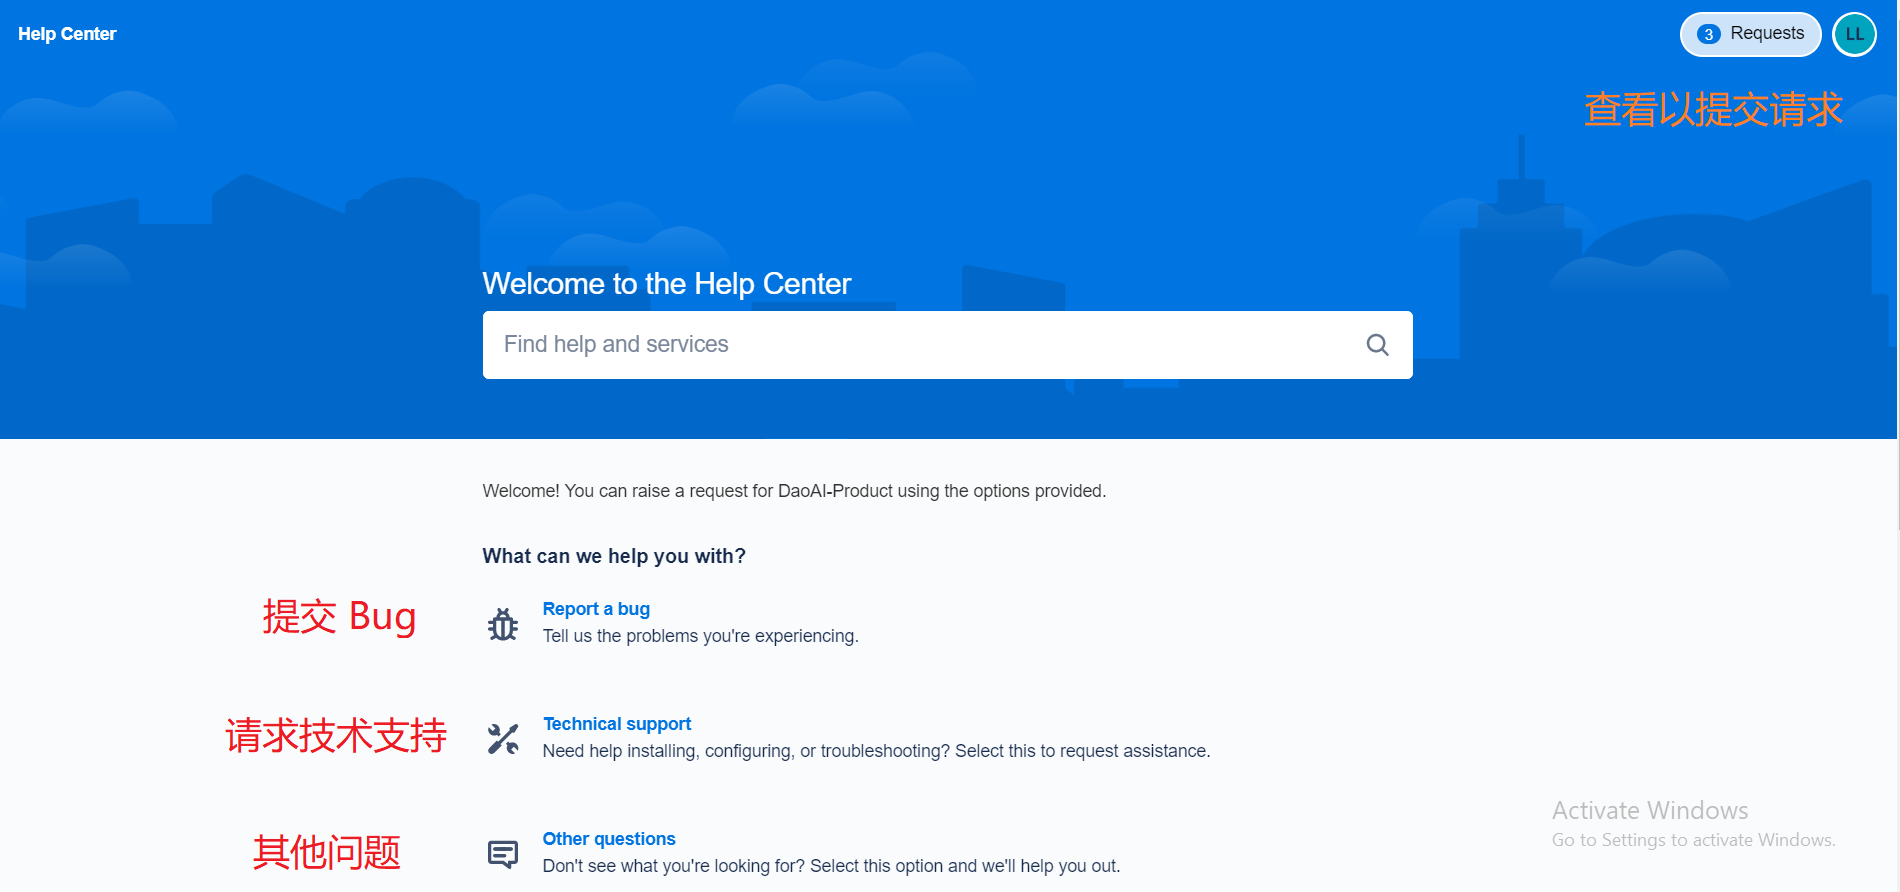
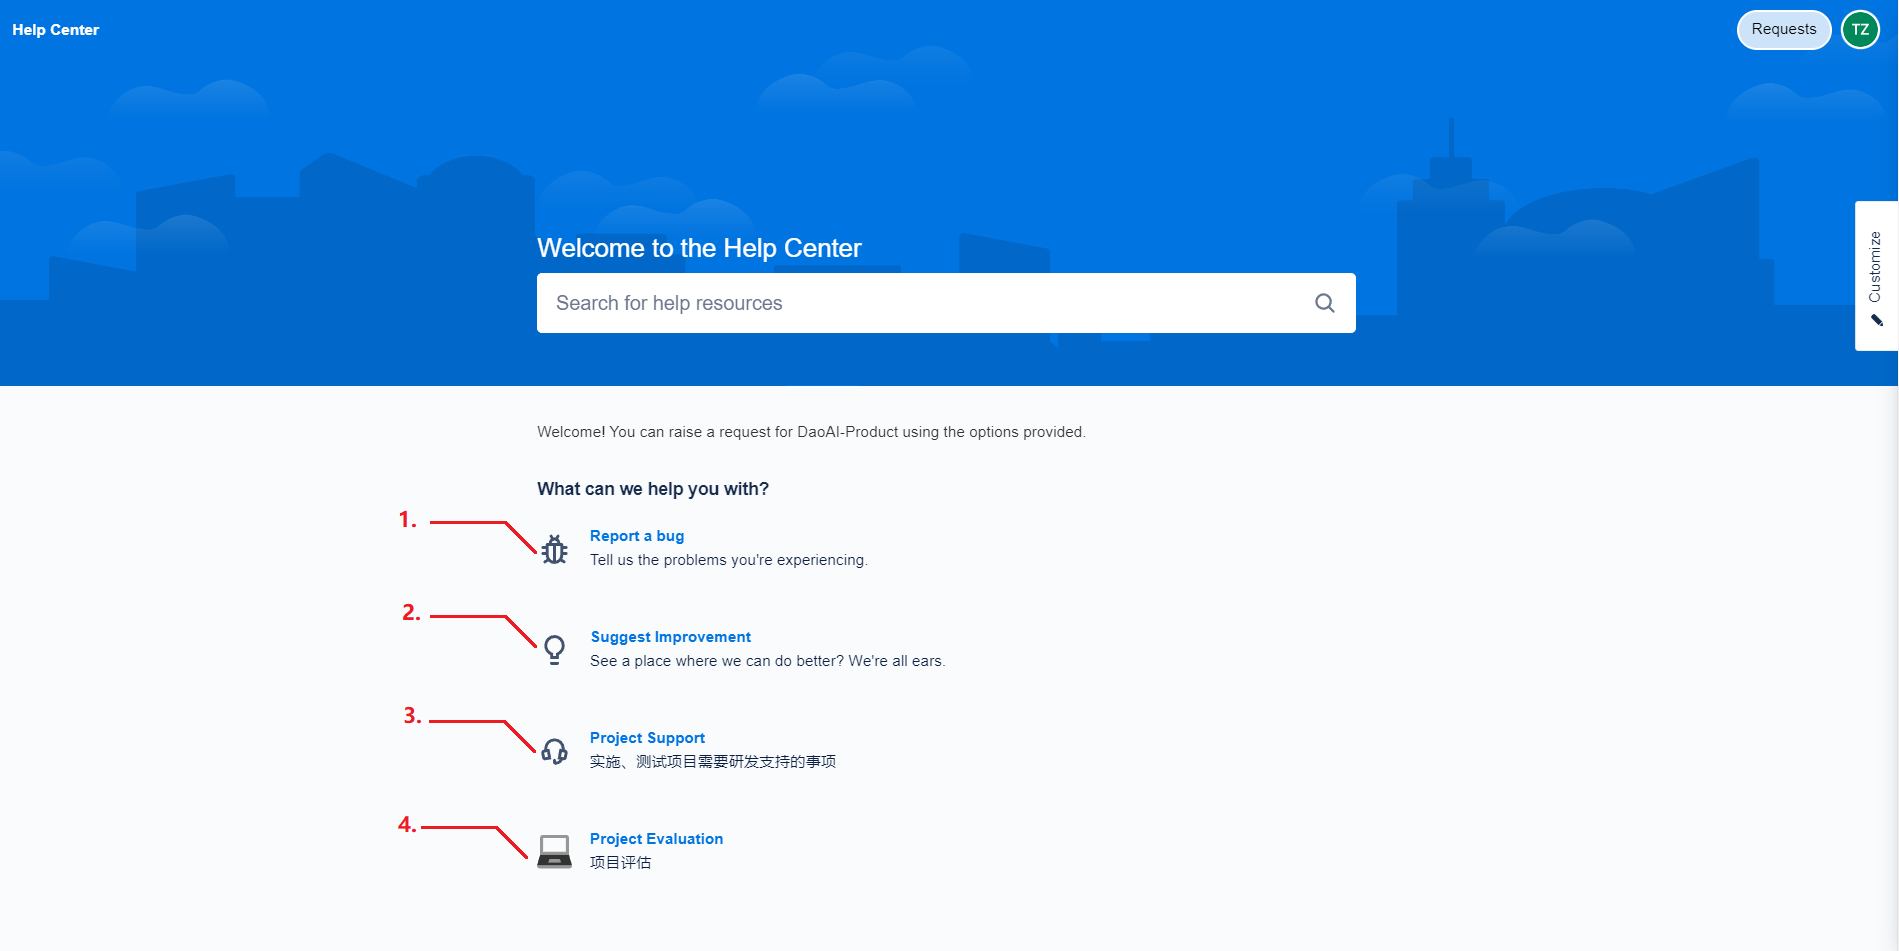
doc update

diff --git a/docs/source/getting-started/quick-start/index.rst b/docs/source/getting-started/quick-start/index.rst
@@ -1,19 +1,41 @@
 快速入门指南
 =====================================
 
-这是一份完整用户手册的快速入门指南，我们建议您按照用户指南进行详细的设置和学习。
+这是一份完整用户手册的快速入门指南，我们建议您按照完整的用户指南进行详细的设置和学习。
 
 .. tabs::
 
-
    .. tab:: 安装
       
-      <待更新>
-      软件的安装
-      驱动的安装
+      在安装DaoAI Vision Congnition System软件之前。
 
-      下载 DaoAI Vision Studio
+      - 检查GPU要求 (GTX 1050 Ti)
+      - 检查GPU驱动是否为最新版本
 
+      请下载 `DaoAI Vision Cognition System <https://daoairoboticsinc.sharepoint.com/:f:/s/WeLinkirt/Eh-hnyClR0hBuUc1w0dF7I0BsXW3wB1DrWbajAxN5FQlIQ?e=1qqoTI>`_
+
+      然后运行完整安装包进行安装： DaoAIVision_2.23.10.0_<版本号>_full_Key.exe，同时也要确保其余的bin文件也在相同路径。
+      
+         .. image:: images/full_installer.png
+            :scale: 100%
+
+      .. note::
+         完整安装包同时会安装一个DaoAI Camera Studio软件，请点击安装以确保软件可以正常运行。
+
+      **补丁包的安装** 需要首先安装完整包，然后再安装补丁包进行升级：DaoAIVision_2.23.10.0_<版本号>_patch_Key.exe 。
+      
+         .. image:: images/patch_installer.png
+            :scale: 100%
+         
+      |br|
+
+      安装的过程只需要点击Install, 然后继续点击下一步就可以完成。
+
+         .. image:: images/installer.png
+            :scale: 100%
+
+      **DaoAI Vision Congnition System** 的安装路径为：`C:\\Program Files\\WeRobotics` |br|
+      **DaoAI Camera Studio** 的安装路径为：`C:\\Program Files (x86)\\DaoAI Studio`
 
    .. tab:: 连接
 
@@ -23,21 +45,52 @@
       
       工控机的连接
          - 工控机通过24V的电源线供电，网线或者WiFi联网。 
+         - 下载并安装后，使用桌面上的启动器程序DaoAI Vision Cognition System，管理并启动服务器
+         - 如果服务器已经打开，那么可以使用网页访问 服务器并运行DaoAI Vision Cognition System。
 
       相机的连接
-         - 工控机通过24V的电源线供电，通过cat-6类网线与Vision连接。
-         - 详细请参考 ___
+         - 相机通过24V的电源线供电，使用cat-6类网线与DaoAI Vision Cognition System连接。
+         - 详细请参考 :ref:`连接相机`
 
       机器人的连接
-         - 机器人通过以太网与Vision连接
-         - 详细请参考 ___
+         - 机器人通过以太网与DaoAI Vision Cognition System连接
+         - 详细请参考 :ref:`连接机器人`
       
       |br|
       |br|
 
    .. tab:: 软件
 
-      <待更新>
+      桌面上的DaoAI Vision Cognition System是服务器的管理器。打开后可以添加，删除，管理您的服务器实例。
+         - 您可以使用务器的管理器，创建并运行多个服务器，服务于多个项目运行。
+
+      .. image:: images/instance_manager.png
+         :scale: 60%
+
+      **运行方式** :
+         1. 双击桌面上的图标，打开服务器管理器。
+            
+            .. image:: images/logo.png
+               :scale: 60%
+
+         2. 点击Add Instance来添加一个服务器实例, 然后点击Select, 选择项目文件的读写路径, 并点击Add Instance。
+            
+            .. image:: images/add_ins.png
+               :scale: 60%
+         
+         3. 点击绿色的运行按钮，看到服务器状态变为运行，那么这时候服务器就启动了。
+            
+            .. image:: images/launch.png
+               :scale: 60%
+         
+         4. 点击Launch按钮，会弹出Chrome页面并访问服务器页面。
+
+         5. 您也可以手动在网页浏览器地址栏输入服务器的 <ip:port> 来访问服务器。
+
+            .. image:: images/software.png
+               :scale: 40%
+
+         6. 下一步请参考 :ref:`软件应用`
 
 
 

diff --git a/docs/source/getting-started/release-notes/index.rst b/docs/source/getting-started/release-notes/index.rst
@@ -1,2 +1,53 @@
 软件版本说明
 ===============
+
+.. contents::
+    :local:
+
+DaoAIVision_2.23.10.0_539_full，1月7号 patch note:
+-----------------------------------------------------
+
+    - 修复了软件版显示窗口随着节点运行切换不同节点的显示问题
+    - 新增Full 安装包添加了安装NodeJS的功能，不需要用户再手动安装以及输入命令了
+    - 修复了网页版导出dcf时点云翻转的问题
+    - 修复了网页版realsense相机无法存图的问题
+    - 修复了网页版自定义机器人无法指定旋转顺序的问题
+
+DaoAIVision_2.23.10.0_520_patch，12月18号 patch note:
+---------------------------------------------------------
+
+    - 修复了机器人发送请求拍照20时，视觉回复的位姿为0的问题
+    - 新增了 不阻塞机器人拍照协议，19：RC_CAPTURE_AND_PROCESS_ASYNC, 发送后会直接会5 并开始拍照+检测
+
+
+DaoAIVision_2.23.10.0_519_full, 12月15号 patch note:
+--------------------------------------------------------
+
+    - 修复了两种夹爪模型中文翻译混淆问题
+    - 修复了定义夹爪上传stl模型的问题
+    - 修复了中文校准显示手眼模式错误的问题
+    - 修复了校准的描述翻译问题
+    - 修复了校准时失败校准的显示更新问题
+    - 修复了校准完成后图片的颜色通道问题
+    - 修复了设置避碰的框选工具的交互方式
+    - 修复了定义模型时检测失败卡住的问题
+    - 修复了避碰失败时回复的status错误问题
+
+DaoAIVision_2.23.10.0_514_patch，12月4号 patch note:
+--------------------------------------------------------
+    - bug 修复
+        - 修复了kp 修复了相机名称为数字不能拍照的问题
+        - 修复了reconstruct的坐标计算
+        - 修复了切换语言需要点两次的问题
+        - 修复了alignment的高级设置无法保存的问题
+        - 修复了控制台信息顺序错误的问题
+        - 修复了reconstruct同一张图中位置识别变化的问题
+        - 修复了payload1 物体剩余数量回复错误的问题
+        - 修复了无法用其它局域网内的机器连接服务器的问题
+        - 修复了没有检测到物体时，显示点云物体坐标残留的问题
+    - 新增
+        - 新增了软件显示版本和构建号
+        - 新增了用payload2 发送给机器人物体标签号的功能
+        - 新增了对realsense相机的支持
+        - 新增了pick sort的分层过滤功能
+

diff --git a/docs/source/support/help-center/index.rst b/docs/source/support/help-center/index.rst
@@ -6,9 +6,10 @@ Help Center 网站： https://daoai.atlassian.net/servicedesk/customer/portals
 .. image:: Images/1.png
     :align: center 
 
-.. image:: Images/2.png
-    :align: center 
-|
+1. 提交一个Bug，使用上遇到的问题。
+2. 提交一个建议，有哪里我们能做的更好。
+3. 项目实施需要研发支持的事项
+4. 项目评估
 
 *各种类别提交流程大致相同，下面以 提交Bug 流程作为例子*
 
@@ -17,23 +18,22 @@ Help Center 网站： https://daoai.atlassian.net/servicedesk/customer/portals
 搜索相关文档
 ~~~~~~~~~~~~~
 
-打开Help Center网站，找到 搜索栏
+打开Help Center网站，找到搜索栏，
 
-.. image:: Images/9.png
-    :align: center 
-|
+    .. image:: Images/9.png
+        :align: center 
+        :scale: 80%
 
-搜索 问题
+输入关键字搜索问题
 
-.. image:: Images/10.png
-    :align: center 
-|
+    .. image:: Images/10.png
+        :align: center 
+        :scale: 80%
 
 查看文档是否有解决方法，如果没有解决方法，再进行 Bug提交
 
-.. image:: Images/11.png
-    :align: center 
-|
+    .. image:: Images/11.png
+        :align: center 
 
 搜索相关请求
 ~~~~~~~~~~~~~
@@ -111,13 +111,13 @@ Help Center 网站： https://daoai.atlassian.net/servicedesk/customer/portals
 
 在此处填写 Bug 的详细介绍，请 **尽量详细** 的描述问题，逐步描述如何复现Bug
 
-请包括： WeRobotics版本，SLC版本（如果问题与相机软件相关），现场工程师名字（如果有的话）
+请包括：DaoAI Vision Cognition System版本，DaoAI Camera Studio版本（如果问题与相机软件相关），以及现场工程师名字（如果有的话）
 
 .. image:: Images/6.png
     :align: center
 |
 
-在此处添加 附件， 用于补充问题描述， 比如 截图，工作空间，视频 等
+在此处添加 附件， 用于补充问题描述， 例如：截图，工作空间，视频 等
 
 .. image:: Images/7.png
     :align: center
@@ -127,7 +127,7 @@ Help Center 网站： https://daoai.atlassian.net/servicedesk/customer/portals
 
 *例子：* https://daoai.atlassian.net/servicedesk/customer/portal/6/DP-36
 
-提交 产品功能需求
+提交产品功能建议
 ~~~~~~~~~~~~~~~~~~
 
 打开Help Center网站， 点击 “Suggest improvement“

diff --git a/docs/source/support/report-a-bug/index.rst b/docs/source/support/report-a-bug/index.rst
@@ -6,15 +6,16 @@ Bug报告的原则是让任何人都能够理解问题并轻松地重现它。
 收集数据
 ------------
 
-
 首先，完整提供以下信息：
 
 #. 软件版本。
     * DaoAI 机器人视觉认知系统
         .. image:: images/faq-version.png
+            :scale: 60%
     
     * DaoAI 3D相机工作室
         .. image:: images/faq-camera-version.png
+            :scale: 80%
 
 #. 现象描述。
 
@@ -25,7 +26,7 @@ Bug报告的原则是让任何人都能够理解问题并轻松地重现它。
 #. 压缩特定的工作空间文件夹。包含重现错误所需的所有文件（dcf数据、深度学习模型和配置文件）。
     .. image:: images/faq-data-folder.png
 
-#. 如果错误导致软件崩溃，请在 **"C:\ProgramData\DaoAI\Vision\Crashpad\db\reports"** 路径下查找由崩溃生成的DMP文件。
+#. 如果错误导致软件崩溃，请在 **"C:\\ProgramData\\DaoAI\\Vision\\Crashpad\\db\\reports"** 路径下查找由崩溃生成的DMP文件。
     .. image:: images/faq-crashpad-path.png
 
     .. important:: ProgramData是Windows中的一个隐藏文件夹，请选中此框以显示隐藏项目。
@@ -39,9 +40,9 @@ Bug报告的原则是让任何人都能够理解问题并轻松地重现它。
 
 如果您找不到解决问题的方法，请随时联系我们：
 
-    #. 前往 `帮助中心 <https://daoai.atlassian.net/servicedesk/customer/portals>`_ 提交您的问题。您还可以查看是否有类似的问题，并查看是否有适用于您的解决方案。一旦我们收到工单，我们将尽快与您联系！
+    #. 前往 `帮助中心 <https://daoai.atlassian.net/servicedesk/customer/portals>`_ 查看是否有类似的问题，并查看是否有适用于您的解决方案。
+    #. 前往 `帮助中心 <https://daoai.atlassian.net/servicedesk/customer/portals>`_ 提交您的问题。一旦我们收到工单，我们将尽快与您联系！
     #. 直接联系您的现场支持工程师。
-    #. 通过支持团队的电子邮件：support@daoai.com。
 
 当您报告问题时，为了帮助我们解决问题，以下信息将非常有用：
 

diff --git a/docs/source/index.rst b/docs/source/index.rst
@@ -6,7 +6,6 @@ DaoAI 机器人视觉认知系统概述
    :caption: 快速入门
 
    getting-started/quick-start/index
-   getting-started/user-guide/index
    getting-started/vision-studio-guide/index
    getting-started/video-tutorial/index
    getting-started/release-notes/index
@@ -49,5 +48,5 @@ DaoAI 机器人视觉认知系统概述
 
    .. support/troubleshooting/index
    .. support/FAQ/index
-   support/help-center/index
    support/report-a-bug/index
+   support/help-center/index

diff --git a/docs/source/hardware/index.rst b/docs/source/hardware/index.rst
@@ -44,23 +44,3 @@ PC预算应首先用于表中的组件。如果预算较高，您的支出大致
 
 
 所有DaoAI 相机系列均支持所有的工业PC产品。
-
-.. tabs::
-    .. tab:: 视觉抓取相机系列
-
-      在DaoAI相机工作室的盒子里包含：
-
-      - DaoAI 视觉抓取相机
-
-      - 电源
-
-      - 电源延长线(6米)
-
-      - 以太网(CAT 6)电缆(10m)
-
-      可选的/订购的：
-
-      - 校准板
-
-      - 安装支架
-

diff --git a/docs/source/getting-started/user-guide/software-installation/index.rst b/docs/source/getting-started/user-guide/software-installation/index.rst
@@ -2,7 +2,9 @@
 软件安装
 ======================
 
-在安装DaoAI Camera Studio软件之前。
+
+
+在安装DaoAI Vision Congnition System软件之前。
 
 - 检查GPU要求 (GTX 1050 Ti)
 - 检查GPU驱动是否为最新版本
